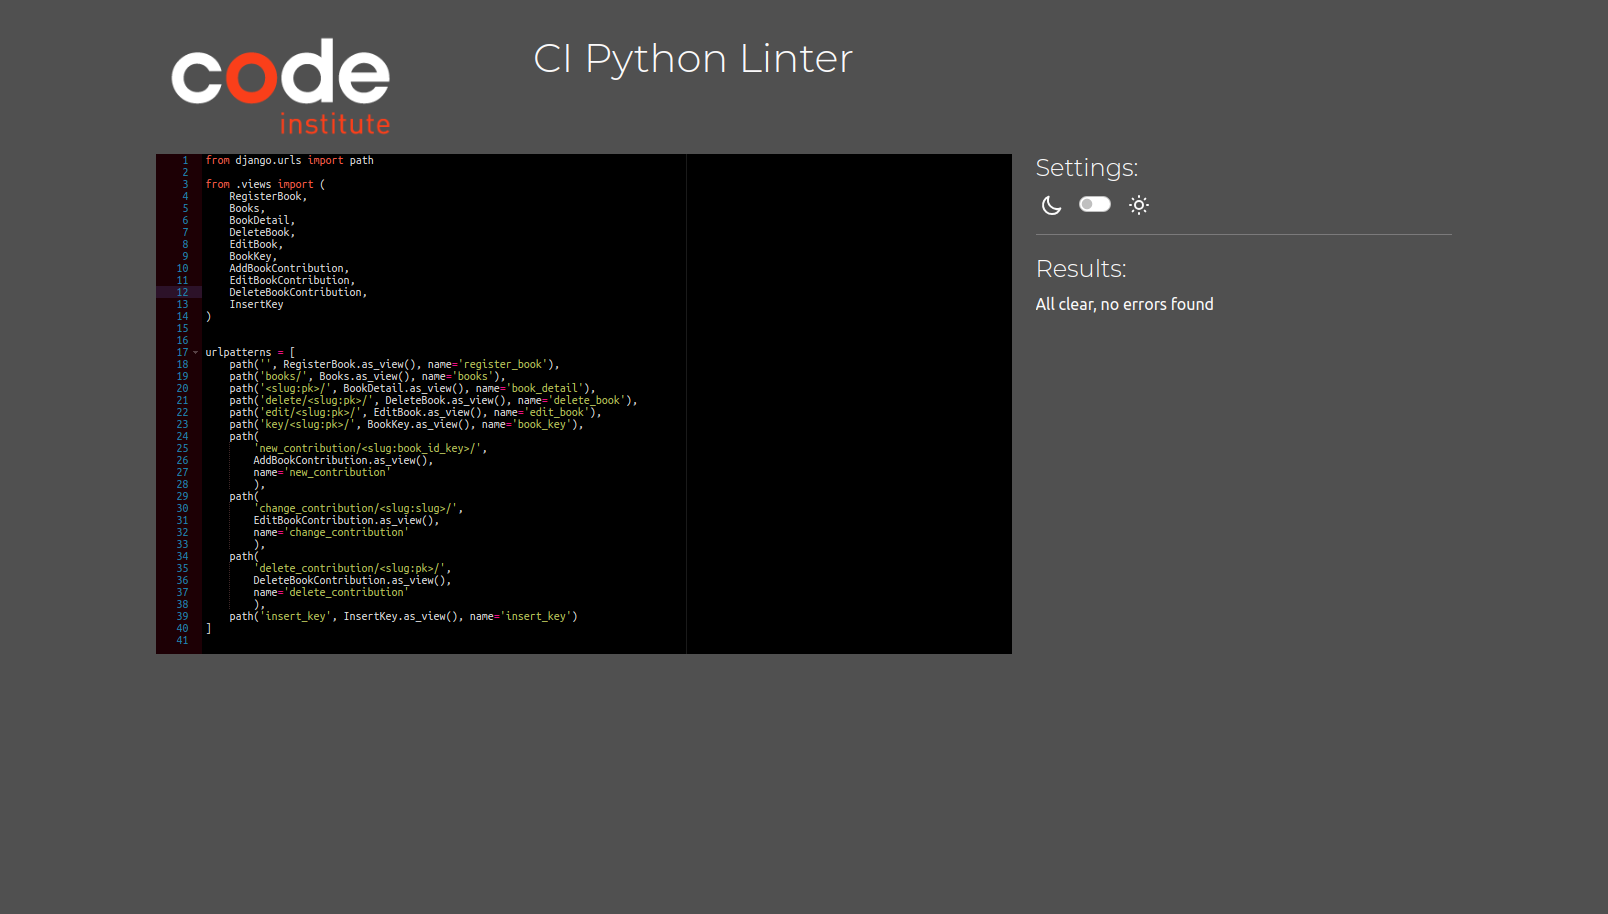
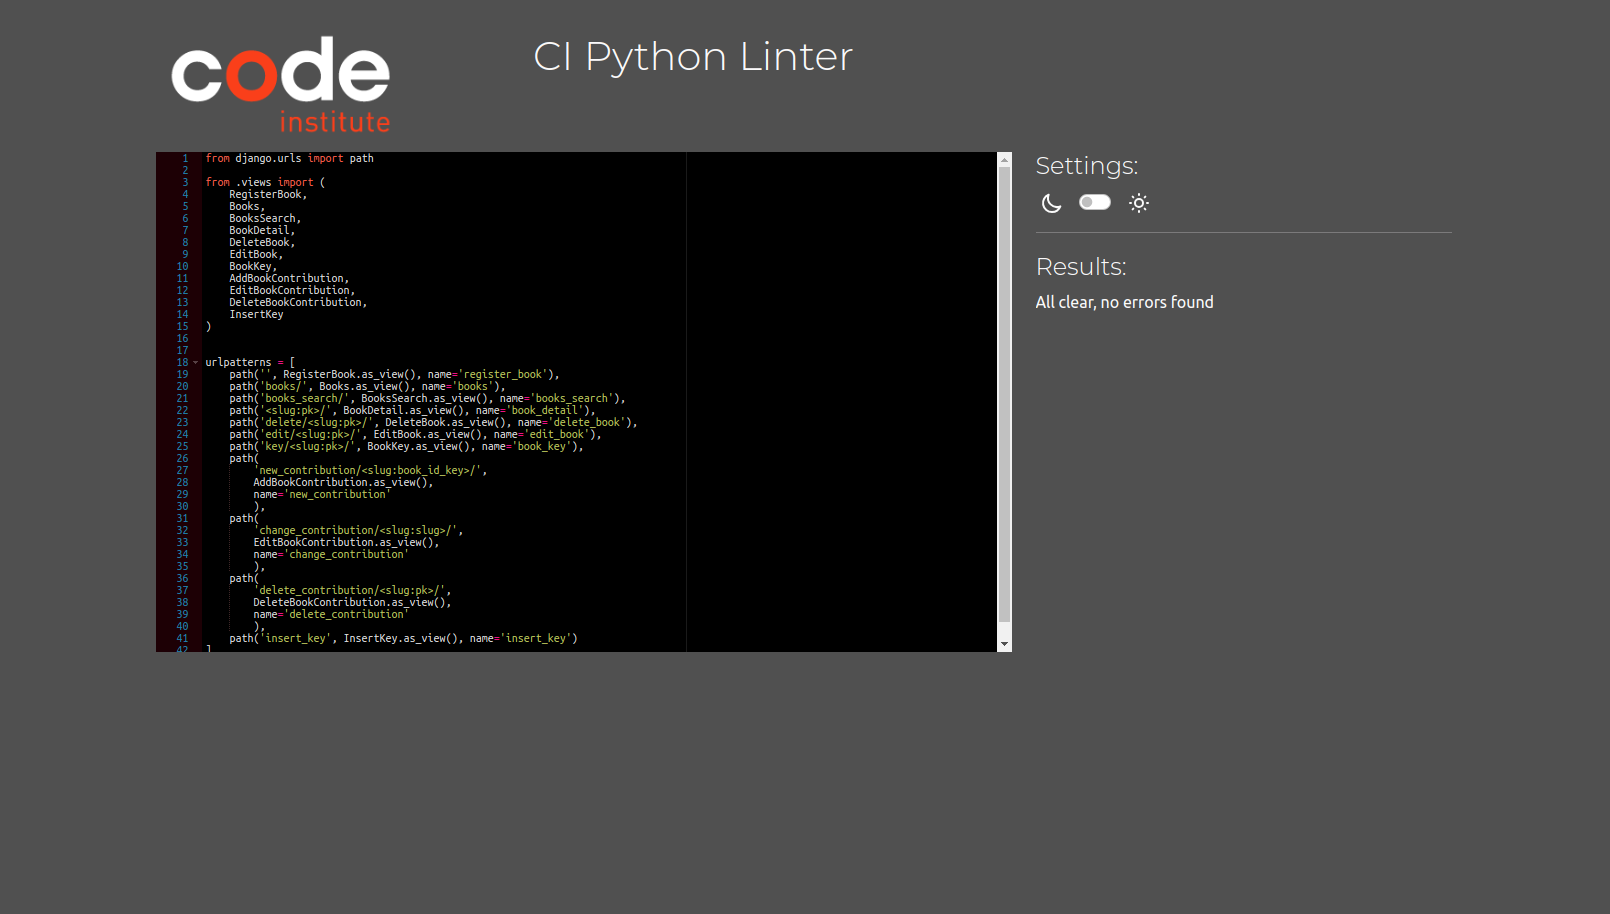
docs: document results for validation the search book

Changed region(s): [[0.0933, 0.0306, 0.4042, 0.7046], [0.5908, 0.1532, 0.7463, 0.7046], [0.342, 0.0306, 0.5286, 0.0919]]

diff --git a/README_testing.md b/README_testing.md
@@ -39,7 +39,8 @@ The [Nu Html Checker](https://validator.w3.org/nu/) web-based tool by W3 was use
 | | [Logout](./docs/testing/html/html_logout.png)| no error |
 | Book | [Register Book](./docs/testing/html/html_register_book.png)| no error |
 | | [Book Key](./docs/testing/html/html_book_key.png) | no error |
-| | [Latest Books](./docs/testing/html/html_books.png) | no error |
+| | [Books Page](./docs/testing/html/html_books.png) | no error |
+| | [Search Books Page](./docs/testing/html/html_search_book.png) | no error |
 | | [Book Detail](./docs/testing/html/html_book_detail.png) | no error |
 | | [Confirm Book Deletion](./docs/testing/html/html_book_delete.png) | no error |
 | | [Book Editing](./docs/testing/html/html_book_edit.png) | no error |
@@ -97,7 +98,8 @@ The [WAVE](https://wave.webaim.org/) web-based tool was considered for the evalu
 | | [Sing Up](https://wave.webaim.org/report#/https://findme-readme-10d0bfb3ba28.herokuapp.com/accounts/signup) |	no errors
 | |  [Log Out](./docs/testing/wave/wave_account_logout.png) | no errors
 | Book |	[Insert Key](https://wave.webaim.org/report#/https://findme-readme-10d0bfb3ba28.herokuapp.com/books/insert_key)|	no errors
-| | [Latest Books](https://wave.webaim.org/report#/https://findme-readme-10d0bfb3ba28.herokuapp.com/books/books)| 	no errors
+| | [Books](https://wave.webaim.org/report#/https://findme-readme-10d0bfb3ba28.herokuapp.com/books/books)| 	no errors
+| | [Search Book ](./docs/testing/wave/wave_search_book)| 	no errors
 | | [Book Detail](./docs/testing/wave/wave_book_detail.png)| no errors
 | | [Register Book](./docs/testing/wave/wave_new_book.png) | no errors
 | | [Book Key](./docs/testing/wave/wave_book_key.png) |	no errors
